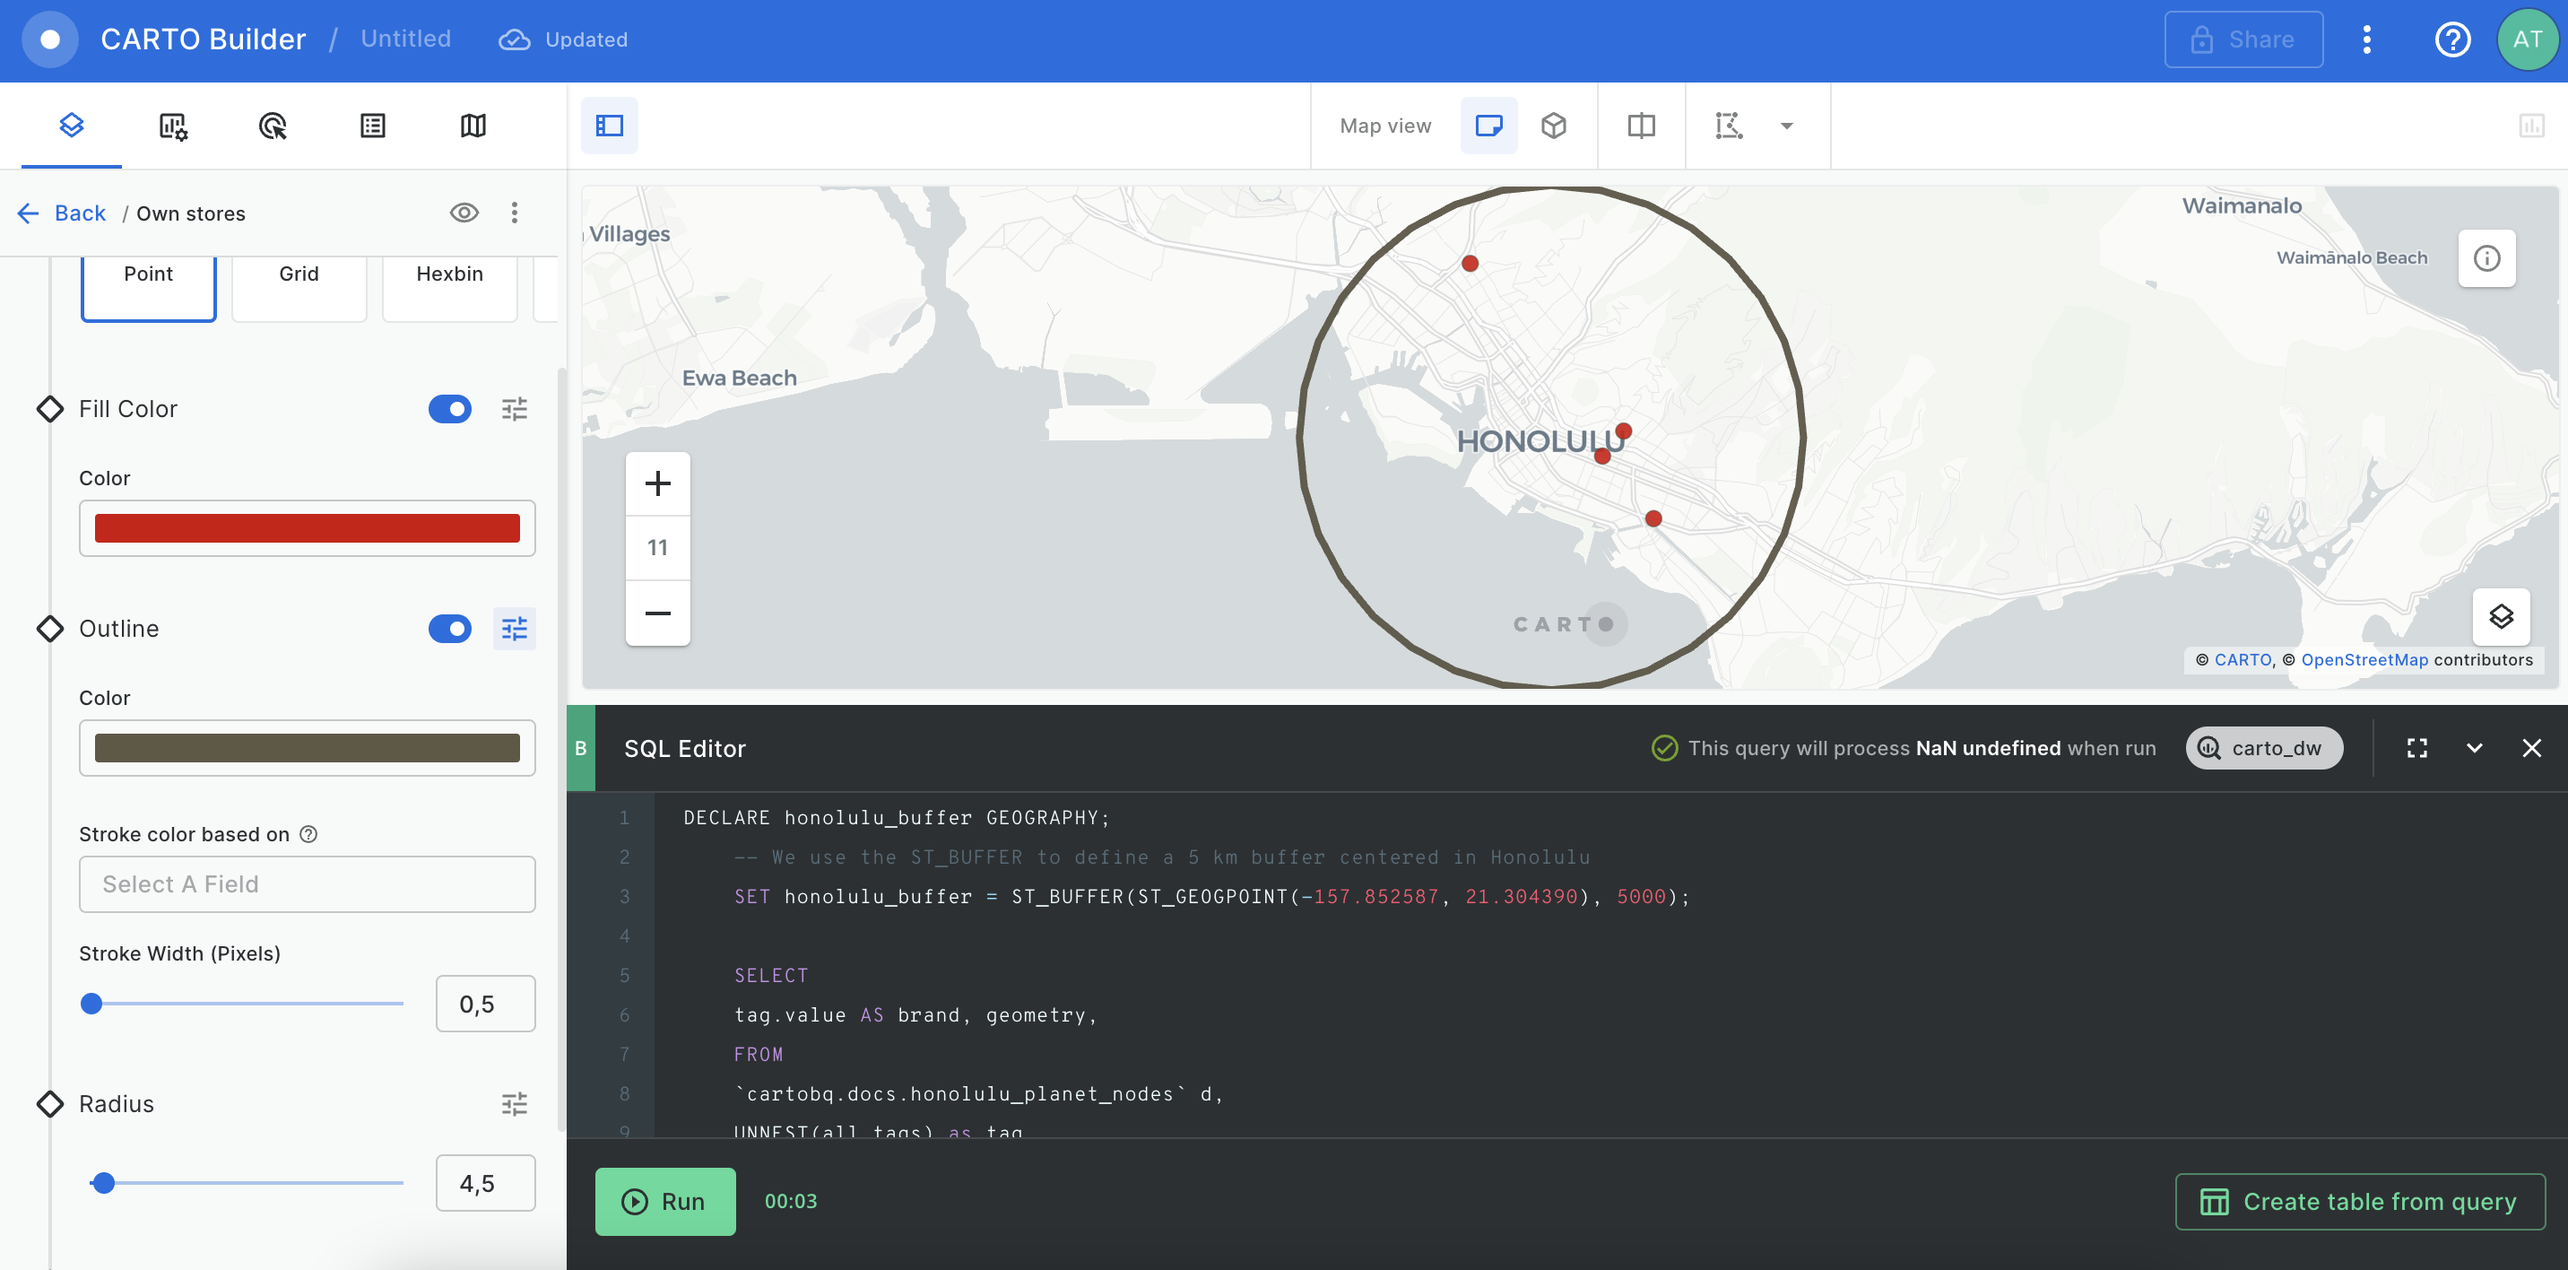
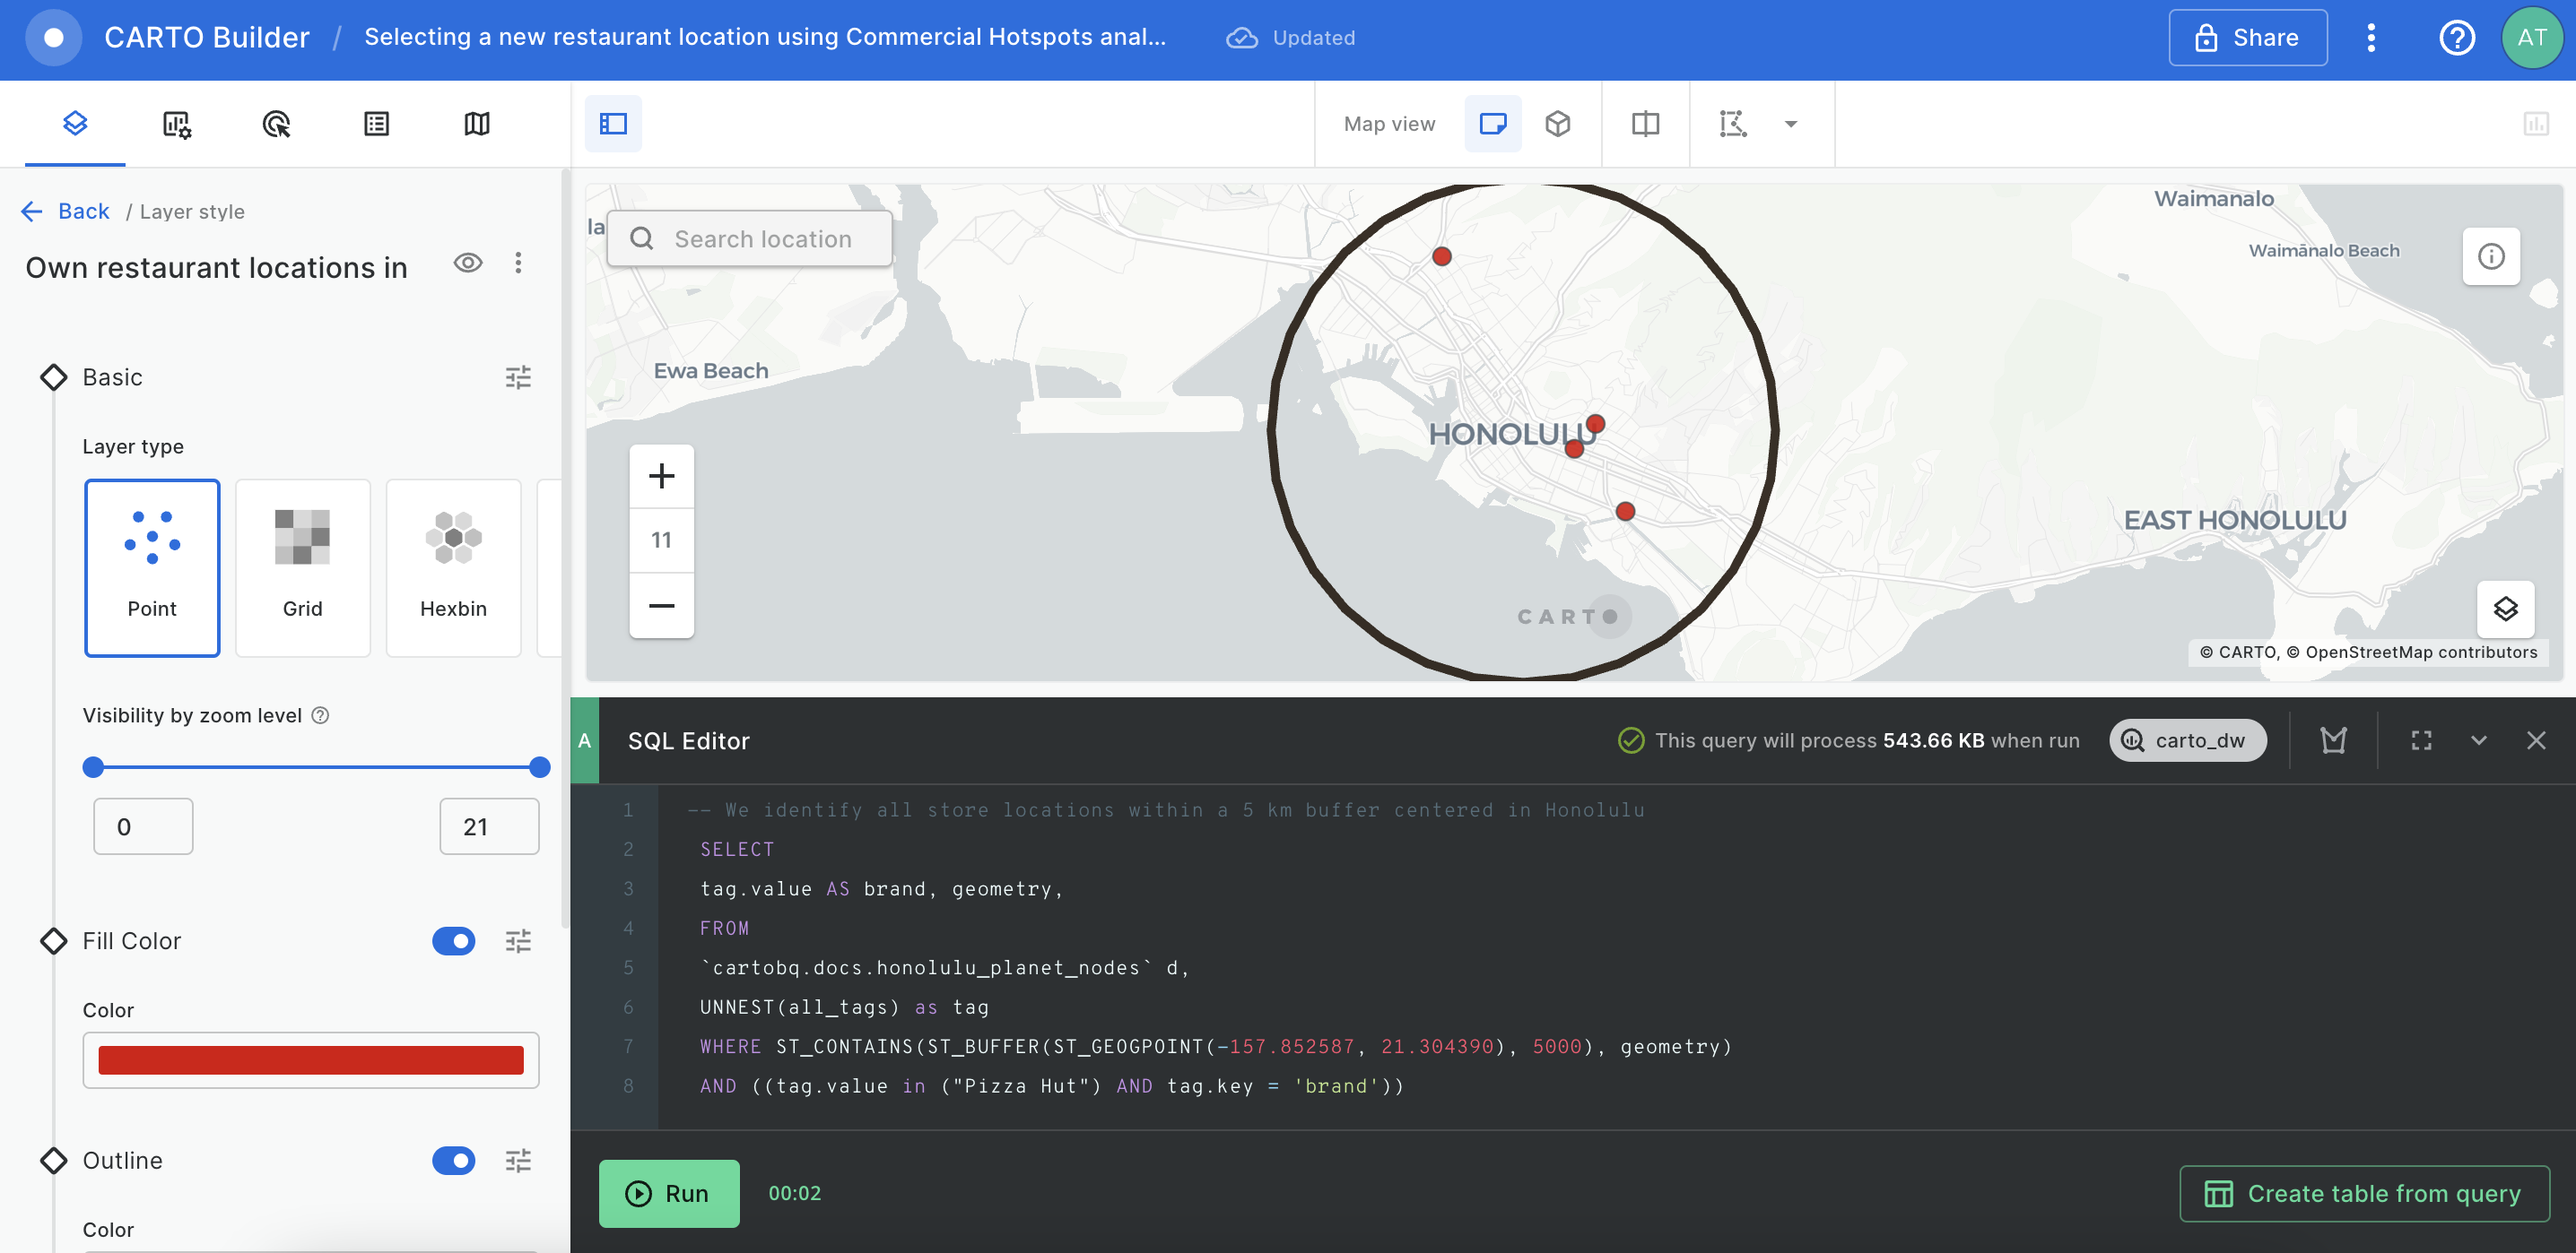
removed_references_to_non-select_commands

diff --git a/app/content/carto-user-manual/tutorials/selecting-a-new-restaurant-location-using-commercial-hotspots-analysis.md b/app/content/carto-user-manual/tutorials/selecting-a-new-restaurant-location-using-commercial-hotspots-analysis.md
@@ -54,33 +54,26 @@ In-depth content and more technical information regarding the exercise found at 
 6. We then extract our current store assets and display on the map. In this example, we will extract Pizza Hut stores from a sample dataset including points of interest in Honolulu (subset of [OpenStreetMaps's Planet Nodes dataset](https://carto.com/spatial-data-catalog/browser/dataset/osm_nodes_74461e34/)). Add a new custom query, as we did in the buffer example, and introduce the query below:
 
    ```sql
-    DECLARE honolulu_buffer GEOGRAPHY;
-    -- We use the ST_BUFFER to define a 5 km buffer centered in Honolulu
-    SET honolulu_buffer = ST_BUFFER(ST_GEOGPOINT(-157.852587, 21.304390), 5000);
- 
+    -- We identify all store locations within a 5 km buffer centered in Honolulu
     SELECT
     tag.value AS brand, geometry,
     FROM
     `cartobq.docs.honolulu_planet_nodes` d,
     UNNEST(all_tags) as tag
-    WHERE ST_CONTAINS(honolulu_buffer, geometry)
+    WHERE ST_CONTAINS(ST_BUFFER(ST_GEOGPOINT(-157.852587, 21.304390), 5000), geometry)
     AND ((tag.value in ("Pizza Hut") AND tag.key = 'brand'))
     ```
 
-    Rename the layer to "Own stores", and style the buffer according to the config seen below
+    Rename the layer to "Own restaurant locations in Honolulu", and style the buffer according to the config seen below
 
    ![Map import own stores](/img/cloud-native-workspace/tutorials/tutorial13_map_import_own_stores.png)
 
 7.  Next we will subdivide the area of study into H3 grid cells of resolution 10 using the query below:
 
     ```sql
-    DECLARE honolulu_buffer GEOGRAPHY;
-    -- We use the ST_BUFFER to define a 5 km buffer centered in Honolulu
-    SET honolulu_buffer = ST_BUFFER(ST_GEOGPOINT(-157.852587, 21.304390), 5000);
- 
     CREATE TABLE `cartobq.docs.honolulu_pizza_aos` AS (
-        SELECT h3id
-        FROM UNNEST(`carto-un`.carto.H3_POLYFILL(honolulu_buffer, 10)) h3id
+        SELECT h3
+        FROM UNNEST(`carto-un`.carto.H3_POLYFILL(ST_BUFFER(ST_GEOGPOINT(-157.852587, 21.304390), 5000), 10)) h3
     )
     ```
     We have already created the table for you, named `cartobq.docs.honolulu_pizza_aos`. You only need to add a new custom query, and run the query below:
@@ -103,7 +96,7 @@ In-depth content and more technical information regarding the exercise found at 
     SELECT * FROM cartobq.docs.honolulu_pizza_aos_enriched
     ```
 
-    Rename the layer "Demographics enrichment" and reorder the layer to place as the bottom layer. Hover over a hexagon to see that there is data on population of age groups.
+    Rename the layer "Demographics enriched area of study" and reorder the layer to place as the bottom layer. Hover over a hexagon to see that there is data on population of age groups.
 
     Hide the layer we have just created by clicking on the "eye" icon next to the 3 dots of each layer.
 
@@ -147,16 +140,13 @@ In-depth content and more technical information regarding the exercise found at 
 10. In addition to target population, we also want to consider the distance to the closest own store, in order to avoid cannibalization. To do this we calculate the distance of each hexagon to each store, and keep the minimum.
 
     ```sql
-    DECLARE honolulu_buffer GEOGRAPHY;
-    SET honolulu_buffer = ST_BUFFER(ST_GEOGPOINT(-157.852587, 21.304390), 5000);
- 
     CREATE TABLE `cartobq.docs.honolulu_pizza_aos_enriched_sum_wdist` AS
     (
     WITH t1 AS (
         SELECT `carto-un`.carto.H3_FROMGEOGPOINT(geometry, 10) as h3id,
         FROM `cartobq.docs.honolulu_planet_nodes` d,
         UNNEST(all_tags) as tag
-        WHERE ST_CONTAINS(honolulu_buffer, geometry)
+        WHERE ST_CONTAINS(ST_BUFFER(ST_GEOGPOINT(-157.852587, 21.304390), 5000), geometry)
         AND ((tag.value in ("Pizza Hut") AND tag.key = 'brand'))
     ),
  
@@ -178,7 +168,7 @@ In-depth content and more technical information regarding the exercise found at 
     SELECT * FROM cartobq.docs.honolulu_pizza_aos_enriched_sum_wdist
     ```
 
-    Rename the layer "Demographics and distance to closest store" and reorder the layer to place below "Own stores" and "Area of study". Hover over a hexagon to see that there is now one population value and distance value per hexagon (population between 15 and 34, and distance to closest own store).
+    Rename the layer "Demographics and distance to closest location" and reorder the layer to place below "Own restaurant locations" and "Area of study". Hover over a hexagon to see that there is now one population value and distance value per hexagon (population between 15 and 34, and distance to closest own store).
 
     Style the hexagons according to the config seen below, applying a gradient palette to represent with darker colour the areas with the lowest population. 
 
@@ -203,7 +193,7 @@ In-depth content and more technical information regarding the exercise found at 
     ```sql
     SELECT ST_UNION_AGG(`carto-un`.carto.H3_BOUNDARY(index)) FROM `cartobq.docs.honolulu_pizza_hotspots`
     ```
-    Rename the layer "Proposed locations" and reorder the layer to place below "Own stores" and "Area of study". 
+    Rename the layer "Proposed restaurant locations" and reorder the layer to place below "Own retsaurant locations" and "Area of study". 
 
     Style the boundary according to the config seen below.
 
@@ -216,15 +206,12 @@ In-depth content and more technical information regarding the exercise found at 
 11. We are going to extract competitors from the `cartobq.docs.honolulu_planet_nodes` table and compute the local outlier factor (using the [LOF](/analytics-toolbox-bigquery/sql-reference/statistics/#lof) function) to identify those that are very close to one another and those far from the others.
 
     ```sql
-    DECLARE honolulu_buffer GEOGRAPHY;
-    SET honolulu_buffer = ST_BUFFER(ST_GEOGPOINT(-157.852587, 21.304390), 5000);
- 
     -- We get all amenities tagged as restaurants or fast_food POIS in Honolulu
     WITH fast_food AS (
         SELECT CAST(id AS STRING) AS id , tag.value, geometry as geom
         FROM `cartobq.docs.honolulu_planet_nodes` d,
         UNNEST(all_tags) as tag
-        WHERE ST_CONTAINS(honolulu_buffer, geometry)
+        WHERE ST_CONTAINS(ST_BUFFER(ST_GEOGPOINT(-157.852587, 21.304390), 5000), geometry)
         AND ((tag.value in ('fast_food', 'restaurant') AND tag.key = 'amenity'))
     ),
  
@@ -239,7 +226,7 @@ In-depth content and more technical information regarding the exercise found at 
     ```sql
     SELECT * FROM `cartobq.docs.honolulu_competitors_lof`
     ```
-    Rename the layer "Competitor LOF analysis" and reorder the layer to place below "Own stores". 
+    Rename the layer "Competitor LOF analysis" and reorder the layer to place below "Own restaurant locations". 
 
     Style the boundary according to the config seen below.
 
@@ -250,15 +237,12 @@ In-depth content and more technical information regarding the exercise found at 
     We adapt the SQL query as such:
 
     ```sql
-    DECLARE honolulu_buffer GEOGRAPHY;
-    SET honolulu_buffer = ST_BUFFER(ST_GEOGPOINT(-157.852587, 21.304390), 5000);
- 
     -- We get all amenities tagged as restaurants or fast_food POIS in Honolulu
     WITH fast_food AS (
         SELECT CAST(id AS STRING) AS id , tag.value, geometry as geom
         FROM `cartobq.docs.honolulu_planet_nodes` d,
         UNNEST(all_tags) as tag
-        WHERE ST_CONTAINS(honolulu_buffer, geometry)
+        WHERE ST_CONTAINS(ST_BUFFER(ST_GEOGPOINT(-157.852587, 21.304390), 5000), geometry)
         AND ((tag.value in ('fast_food', 'restaurant') AND tag.key = 'amenity'))
     ),
  
@@ -291,7 +275,7 @@ In-depth content and more technical information regarding the exercise found at 
 
 15. Finally, we can visualize the result.
 
-    <iframe width="800px" height="800px" src="https://gcp-us-east1.app.carto.com/map/bf3846cc-aa71-42f2-88da-fe98233072d1"></iframe>
+   <iframe width="800px" height="800px" src="https://gcp-us-east1.app.carto.com/map/bf3846cc-aa71-42f2-88da-fe98233072d1"></iframe>
 
 
 
